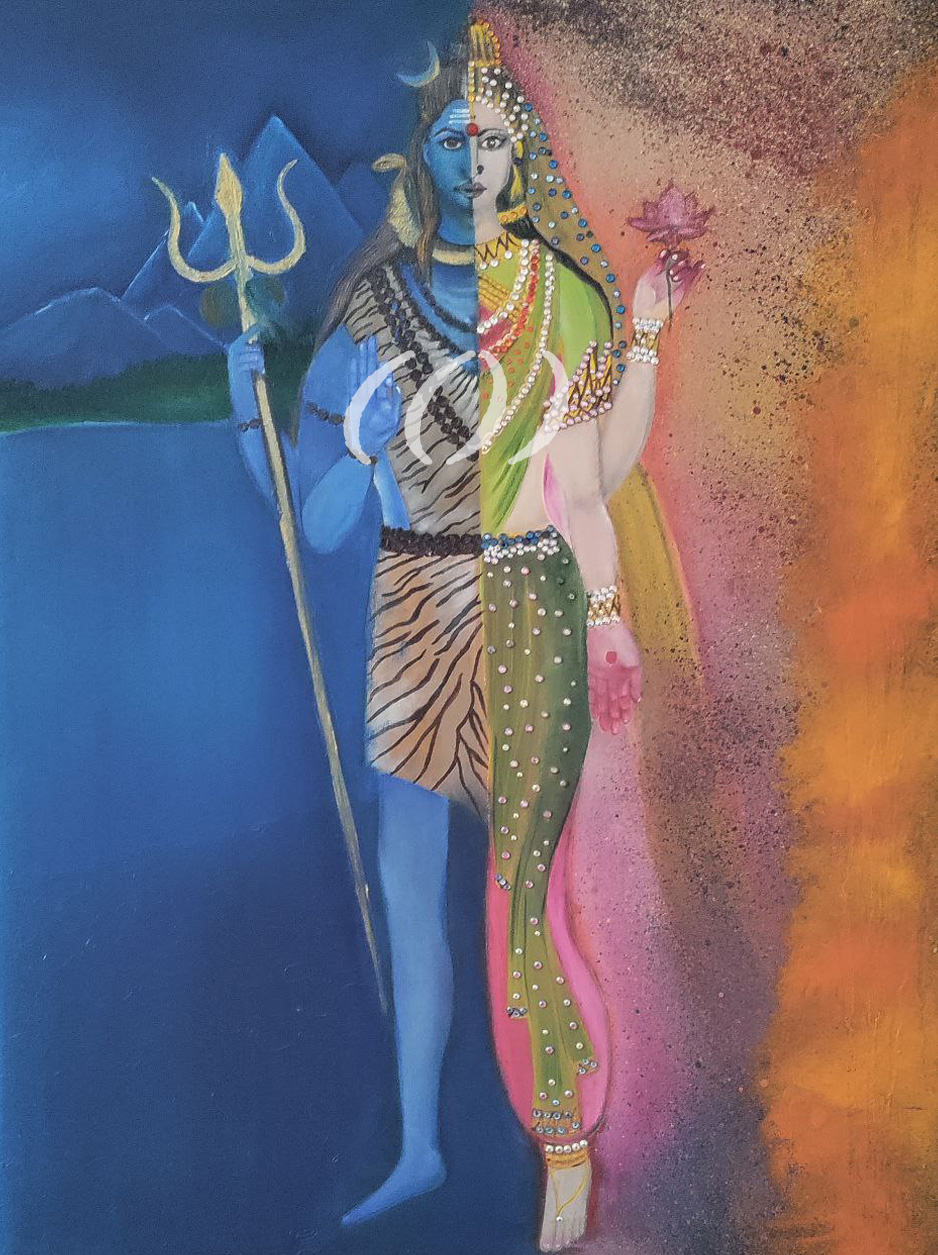
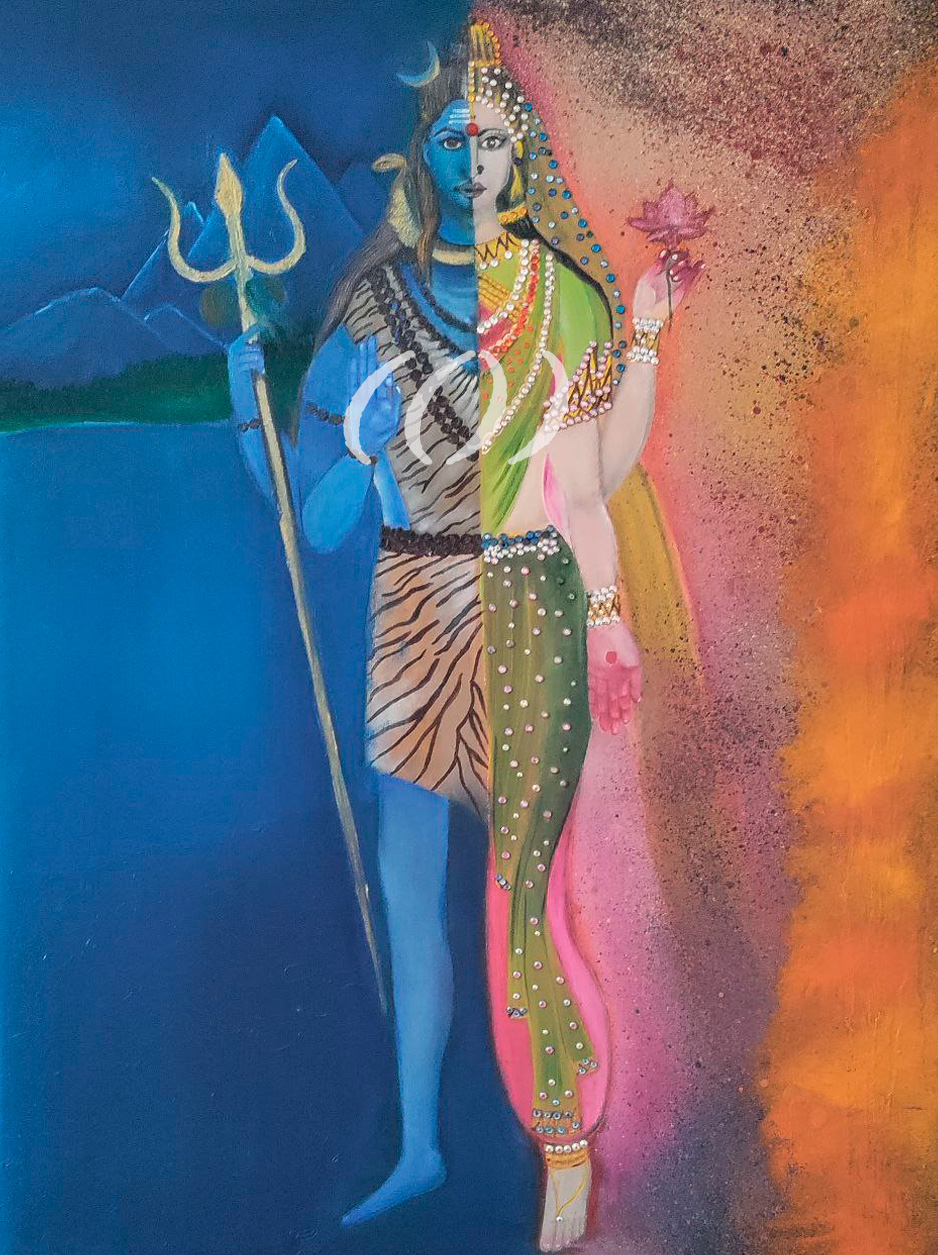
changed quality of pics

diff --git a/live.html b/live.html
@@ -139,7 +139,7 @@
       <div class="media-box text-center">
         <div>
           <img
-            src="/media/k1.png"
+            src="/media/k1.jpg"
             class="img-fluid p-2 shadow rounded zoomableImage"
             width="400px"
             alt="Sadashiva"
@@ -186,7 +186,7 @@
         </div>
 <div>
           <img
-            src="/media/k2.png"
+            src="/media/k2.jpg"
             class="img-fluid p-2 shadow rounded pages zoomableImage"
             width="400px"
             alt="Shiva"
@@ -234,7 +234,7 @@
       <div class="media-box text-center">
         <div>
           <img
-            src="/media/k4.png"
+            src="/media/k4.jpg"
             class="img-fluid p-2 shadow rounded zoomableImage"
             width="400px"
             alt="Lingadhava"
@@ -280,7 +280,7 @@
         </div>
         <div>
           <img
-            src="/media/k6.png"
+            src="/media/k6.jpg"
             class="img-fluid p-2 shadow rounded zoomableImage"
             width="400px"
             alt="Virabhadra"
@@ -329,7 +329,7 @@
       <div class="media-box text-center">
         <div>
           <img
-            src="/media/k3.png"
+            src="/media/k3.jpg"
             class="img-fluid p-2 shadow rounded zoomableImage"
             width="400px"
             alt="Mahadev"
@@ -377,7 +377,7 @@ Yoga Yoga Yogeshwaraya!
         </div>
         <div>
           <img
-            src="/media/k99.png"
+            src="/media/k99.jpg"
             class="img-fluid p-2 shadow rounded zoomableImage"
             width="400px"
             alt="Parvati"
@@ -425,7 +425,7 @@ Yoga Yoga Yogeshwaraya!
       <div class="media-box text-center">
         <div>
           <img
-            src="/media/k5.png"
+            src="/media/k5.jpg"
             class="img-fluid p-2 shadow rounded zoomableImage"
             width="400px"
             alt="Nataradja"
@@ -470,7 +470,7 @@ Yoga Yoga Yogeshwaraya!
         </div>
         <div>
           <img
-            src="/media/k8.png"
+            src="/media/k8.jpg"
             class="img-fluid p-2 shadow rounded zoomableImage"
             width="400px"
             alt="Kali"
@@ -511,13 +511,13 @@ Yoga Yoga Yogeshwaraya!
       <div class="media-box text-center">
         <div>
           <img
-            src="/media/k7.png"
+            src="/media/k7.jpg"
             class="img-fluid p-2 shadow rounded zoomableImage"
             width="400px"
             alt="Arthanaishvari"
           />
           <h2 class="text-center mt-3">#9 Ардгана́рішвара</h2>
-          <h3 class="text-center">5D-art, полотно, олія, swarovsky, 2015, 60x80 см, гелерейна натяжка</h3>
+          <h3 class="text-center">5D-art, полотно, олія, swarovsky, 2015, 80x60 см, гелерейна натяжка</h3>
           <p class="mt-3">
          Ардгана́рішвара (Skt. अर्धनारीश्वर IAST: Ardhānārīśvaraḥ) — аспект Щіви як єдності чоловічого й жіночого начал
 Ардгана́рішвара  означає «Господь, що наполовину жінка». У цій формі Щіва постає у злитті зі своєю Щакті — Парваті, демонструючи повну гармонію чоловічої та жіночої енергії, свідомості та матерії, статичності й динаміки.
@@ -584,8 +584,10 @@ Yoga Yoga Yogeshwaraya!
       ><svg xmlns="http://www.w3.org/2000/svg" width="24" height="24" fill="currentColor" class="bi bi-telegram" viewBox="0 0 16 16">
   <path d="M16 8A8 8 0 1 1 0 8a8 8 0 0 1 16 0M8.287 5.906q-1.168.486-4.666 2.01-.567.225-.595.442c-.03.243.275.339.69.47l.175.055c.408.133.958.288 1.243.294q.39.01.868-.32 3.269-2.206 3.374-2.23c.05-.012.12-.026.166.016s.042.12.037.141c-.03.129-1.227 1.241-1.846 1.817-.193.18-.33.307-.358.336a8 8 0 0 1-.188.186c-.38.366-.664.64.015 1.088.327.216.589.393.85.571.284.194.568.387.936.629q.14.092.27.187c.331.236.63.448.997.414.214-.02.435-.22.547-.82.265-1.417.786-4.486.906-5.751a1.4 1.4 0 0 0-.013-.315.34.34 0 0 0-.114-.217.53.53 0 0 0-.31-.093c-.3.005-.763.166-2.984 1.09"/>
 </svg></a>
-  <div class="mt-3">
-   <a class="git" href="https://sai-rituals.netlify.app" target="_blank">Saiudja's Yoga</a>
+  <div class="text-center mt-3 mb-3">
+  <a class="link" href="https://sai-rituals.netlify.app" target="_blank">Про мене</a></h3>
+   <a class="link" href="https://youtube.com/shorts/up3U6Gm_acs" target="_blank">Йога дім</a>
+   <a class="link" href="/white-paper.html" target="_blank">Дорожня карта</a>
    </div>
   <div class="github mt-1 mb-3">
    This project was coded by Saiudja

diff --git a/pictures.html b/pictures.html
@@ -110,7 +110,7 @@
         <div>
           <h2 class="text-center mt-3">Танок Щіви і Щакті</h2>
           <img
-            src="/media/dance.png"
+            src="/media/dance.jpg"
             class="img-fluid p-2 shadow rounded zoomableImage"
             width="400px"
             alt="Dance of Shiva-Shakty"
@@ -145,7 +145,7 @@
         <div>
           <h2 class="text-center mt-3">Лінгам</h2>
           <img
-            src="/media/k12.png"
+            src="/media/k12.jpg"
             class="img-fluid p-2 shadow rounded zoomableImage"
             width="400px"
             alt="Lingam"
@@ -172,7 +172,7 @@
         <div>
           <h2 class="text-center mt-3">Аді Щакті</h2>
           <img
-            src="/media/k10.png"
+            src="/media/k10.jpg"
             class="img-fluid p-2 shadow rounded zoomableImage"
             width="400px"
             alt="Adi Shakti"
@@ -223,9 +223,35 @@
             src="/media/lakshmi.jpg"
             class="img-fluid p-2 shadow rounded zoomableImage"
             width="400px"
-            alt="Adi Shakti"
+            alt="Lakshmi"
           />
           <h3 class="mt-3 text-center">5D-art, полотно, олія, куркума, 2016, 60x50 см, галерейна натяжка</h3>
+          </div>
+        </div>
+        <p>
+Лакшмі — втілення благословенної присутності. На полотні вона — не просто богиня багатства, а ніжне світло, що спливає зсередини. Її погляд — м’який, але пронизливий, як відлуння глибокого спокою. Злотиста аура навколо випромінює не стільки матеріальне, скільки внутрішнє процвітання: доброту, гідність, довіру до життя. Лотоси — мов відлуння серця, яке розквітає в просторі прийняття. Цей образ не потребує слів — він мовчки наповнює душу відчуттям, що все вже є.
+        </p>
+          <div class="navigation-links mb-5">
+            <a
+              href="https://t.me/Saiudja"
+              class="secondary-link"
+              title="mail-me"
+              target="_blank"
+              >Придбати</a
+            >
+          
+      </div>
+
+      <div class="media-box text-center">
+        <div>
+          <h2 class="text-center mt-3">Lonely Shivaya</h2>
+          <img
+            src="/media/k13.jpg"
+            class="img-fluid p-2 shadow rounded zoomableImage"
+            width="400px"
+            alt="Lonely Shivaya"
+          />
+          <h3 class="mt-3 text-center">5D-art, полотно, олія, 2025, 80x60 см, гелерейна натяжка</h3>
           </div>
         </div>
         <p>

diff --git a/order.html b/order.html
@@ -145,7 +145,7 @@
     Купуючи NFT ви отримуєте право на володіння арт-об'єктом. Це може бути оригінал чи друкована фотокопія, в залежності який NFT ви придбали.
      Напишіть мені будь-яким зручним для вас способом та надайте хеш транзакції і дані куди переслати твір. Деталі доставки обговрюємо при контакті.
        Ви можете придбати твір, тоді цифрову версію відправляю вам на вказану адресу після оплати.</br>
-       Вартість кожного твору коливається в залежності від курсу валюти, в якій він випущений. З ціною можна ознайомитись, відвідавши сторінку NFT.
+       Вартість кожного твору коливається в залежності від курсу валюти, в якій він випущений. З ціною можна ознайомитись, відвідавши сторінку NFT. Колекція Live pictures випущене на блокчейні Base, ціна у ETH.
       <em><p class="little mt-5">Дисклеймер: </br>
 Усі твори, представлені на сайті https://sai-5d.netlify.app/, є результатом авторського бачення та художньої інтерпретації образів, енергій і символів. Закладені змісти не є науковими, релігійними чи догматичними твердженнями та не претендують на універсальність або об’єктивну істину. Вони створені виключно з мистецькою метою і не мають на меті образити чиїсь почуття, переконання чи права.
 Сприйняття кожного твору є суб’єктивним і залежить від особистого досвіду, світогляду та внутрішнього стану глядача. Автор не несе відповідальності за індивідуальне трактування сенсів, закладених у творах, а також за будь-які дії чи рішення, прийняті на основі такого трактування.

diff --git a/index.html b/index.html
@@ -108,7 +108,7 @@
       <h1 class="text-center mt-5 mb-3"><a class="primary-link" href="realnist.html"><strong>5D реальність</strong></a></h1></li>
       <li><h3 class="text-center">творіння Творця,</br>Творця Творіння</h3></li>
         <li><h1 class="text-center mt-3 mb-3"><a class="primary-link" href="live.html"><strong>Живі картини</strong></a></h1></li>
-        <li><h3 class="text-center">5D твори</strong> - двері у вибрану квантову реальність.</h3></li>
+        <li><h3 class="text-center">5D твори</strong> - ключі у вибрану квантову реальність.</h3></li>
         </ul>
         <div class="text-center mt-2 mb-3" id="myDiv ">
           <img src="/media/shri.png" id="shri">
@@ -116,9 +116,9 @@
     </div>
  
   <div class = "gallery mt-4">
-    <img src="/media/k1.png">
-    <img src="/media/k3.png">
-    <img src="/media/k11.png">
+    <img src="/media/k1.jpg">
+    <img src="/media/k3.jpg">
+    <img src="/media/k11.jpg">
 </div>
         <footer>
   <div class="mt-3">
@@ -161,11 +161,11 @@ target="_blank"
   <path d="M8.051 1.999h.089c.822.003 4.987.033 6.11.335a2.01 2.01 0 0 1 1.415 1.42c.101.38.172.883.22 1.402l.01.104.022.26.008.104c.065.914.073 1.77.074 1.957v.075c-.001.194-.01 1.108-.082 2.06l-.008.105-.009.104c-.05.572-.124 1.14-.235 1.558a2.01 2.01 0 0 1-1.415 1.42c-1.16.312-5.569.334-6.18.335h-.142c-.309 0-1.587-.006-2.927-.052l-.17-.006-.087-.004-.171-.007-.171-.007c-1.11-.049-2.167-.128-2.654-.26a2.01 2.01 0 0 1-1.415-1.419c-.111-.417-.185-.986-.235-1.558L.09 9.82l-.008-.104A31 31 0 0 1 0 7.68v-.123c.002-.215.01-.958.064-1.778l.007-.103.003-.052.008-.104.022-.26.01-.104c.048-.519.119-1.023.22-1.402a2.01 2.01 0 0 1 1.415-1.42c.487-.13 1.544-.21 2.654-.26l.17-.007.172-.006.086-.003.171-.007A100 100 0 0 1 7.858 2zM6.4 5.209v4.818l4.157-2.408z"/>
 </svg>
 </a>
-  <div class="mt-3">
-   <a class="git" href="https://sai-rituals.netlify.app" target="_blank">Про мене</a>
-   </div>
-   <div class="mt-1">
-   <a class="git" href="https://youtube.com/shorts/up3U6Gm_acs" target="_blank">Йога дім</a>
+  </div>
+  <div class="text-center mb-3">
+  <a class="link" href="https://sai-rituals.netlify.app" target="_blank">Про мене</a></h3>
+   <a class="link" href="https://youtube.com/shorts/up3U6Gm_acs" target="_blank">Йога дім</a>
+   <a class="link" href="/white-paper.html" target="_blank">Дорожня карта</a>
    </div>
   <div class="github  mt-1 mb-3">
    This project was coded by Saiudja

diff --git a/white-paper.html b/white-paper.html
@@ -105,18 +105,20 @@
       </nav>
   </div>
 
-    <div class="container">
-<h2 class="heros">Samsung The Frame</h2>
-<p class="mt-3 mb-3" id="sumsung">
-•	Фішка: Спеціально створений як рамка для картин</br>
-•	Дисплей: QLED 4K, матове покриття (антиблік)</br>
-•	Діагоналі: 32", 43", 50", 55", 65", 75", 85"</br>
-•	Особливість: Змінні рамки різних кольорів, режим "Art Mode" — показує картини з музеїв світу</br>
-•	Ціна: $800–2500 (залежить від розміру)</br>
-•	Ідеально підходить для електронних картин</br>
-Екран візуалізації з кріпленнями для встановлення на площину оплачується окремо (вартість залежить від розмірів, якості зображення і тд)
-      </p>
-      <a class="secondary-link" href="https://www.youtube.com/watch?v=NsrrvgVVttw" target="_blank">Подивитись</a>
-</div>
+    <div class="heros">
+<h2 class="heros">White paper 5D-Art project:</h2>
+<p>
+•	Cтворення першої колекції 5D-творів під назвою "Live pictures": 2014-2016</br>
+•	Освячення колекції "Live pictures": 27 травня 2016</br>
+•	Випуск перших двох токенів колекції "Live pictures": 30 квітня 2025</br>
+•	Випуск токенів інших 5D-творів: травень 2025</br>
+•	Випуск токенів ще 6 5D-творів колекції "Live pictures": травень 2025</br>
+•	Відкриття сторінки для мінту фотокопій: травень 2025</br>
+•	Секретний бонус: серпень 2025</br>
+•	Запуск потокового відтворення 5D-творів на замовлення: червень 2025 </br>
+• Запуск додатку-персоніфікатора для iOS та Android: січень 2026</br>
+•	Розповсюдження 5D-Арту: з травня 2025</br>
+</p>
+    </div>
   </body>
 </html>

diff --git a/src/style.css b/src/style.css
@@ -285,6 +285,15 @@ ul {
 .git:hover {
   text-decoration: underline;
 }
+.link {
+  display: inline-block;
+  margin-right: 15px;
+  text-decoration: none;
+  color: white;
+}
+.link:hover {
+  text-decoration: underline;
+}
 .navbar {
   background-color: black;
 }
